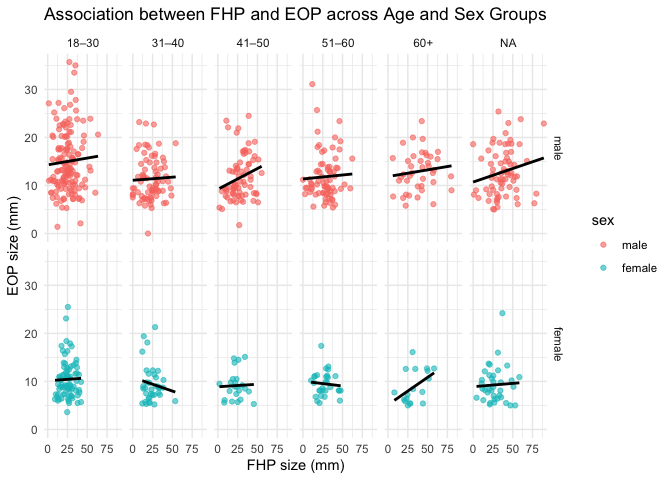
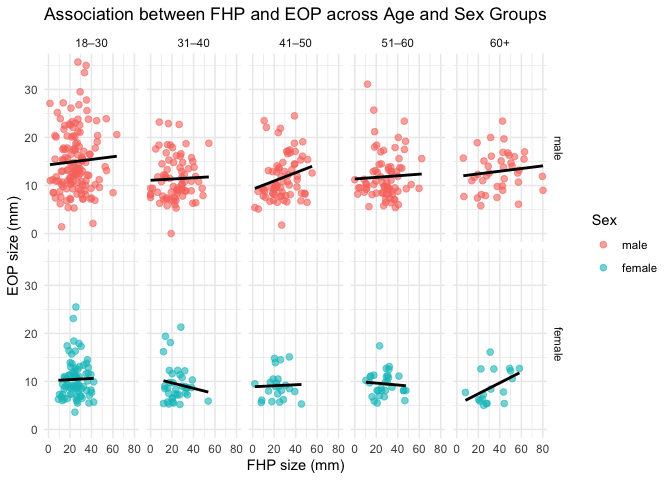
update visualization

diff --git a/p8105_mtp_yz5248.md b/p8105_mtp_yz5248.md
@@ -221,23 +221,21 @@ two_panel_fig
 
 ``` r
 fhp_eop_plot = raw_df |>
+  filter(!is.na(fhp_size_mm), !is.na(eop_size_mm), !is.na(sex), !is.na(age_group)) |>
   ggplot(aes(x = fhp_size_mm, y = eop_size_mm, color = sex)) +
-  geom_point(alpha = 0.6) +
+  geom_point(alpha = 0.6, size = 2) +
   geom_smooth(method = "lm", se = FALSE, color = "black") +
   facet_grid(sex ~ age_group) +
-  labs(title = "Association between FHP and EOP across Age and Sex Groups",
-       x = "FHP size (mm)", y = "EOP size (mm)") +
+  labs(
+    title = "Association between FHP and EOP across Age and Sex Groups",
+    x = "FHP size (mm)", 
+    y = "EOP size (mm)",
+    color = "Sex"
+  ) +
   theme_minimal()
-
 fhp_eop_plot
 ```
 
     ## `geom_smooth()` using formula = 'y ~ x'
-
-    ## Warning: Removed 523 rows containing non-finite outside the scale range
-    ## (`stat_smooth()`).
-
-    ## Warning: Removed 523 rows containing missing values or values outside the scale range
-    ## (`geom_point()`).
 
 ![](p8105_mtp_yz5248_files/figure-gfm/unnamed-chunk-6-1.png)<!-- -->
